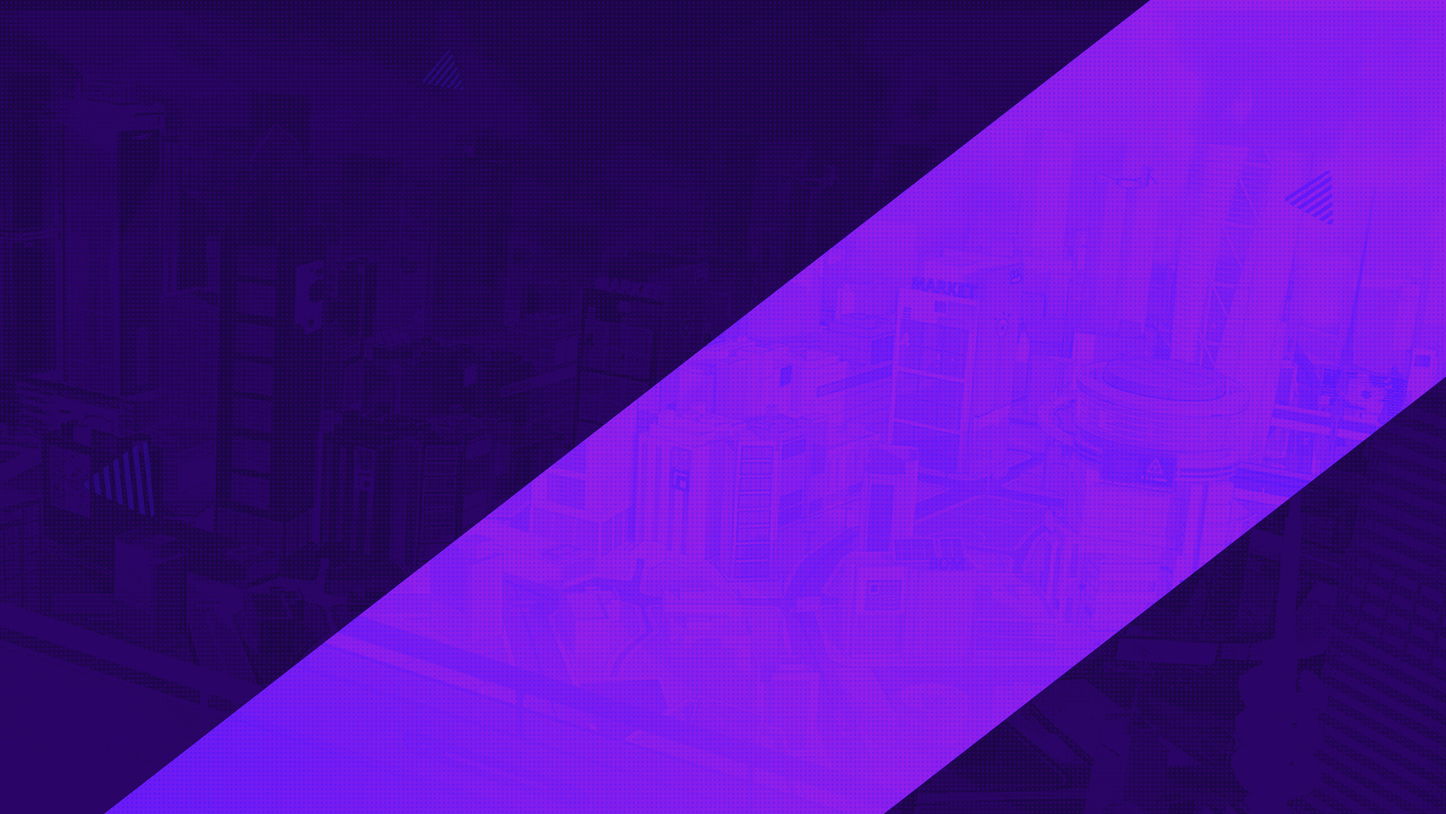
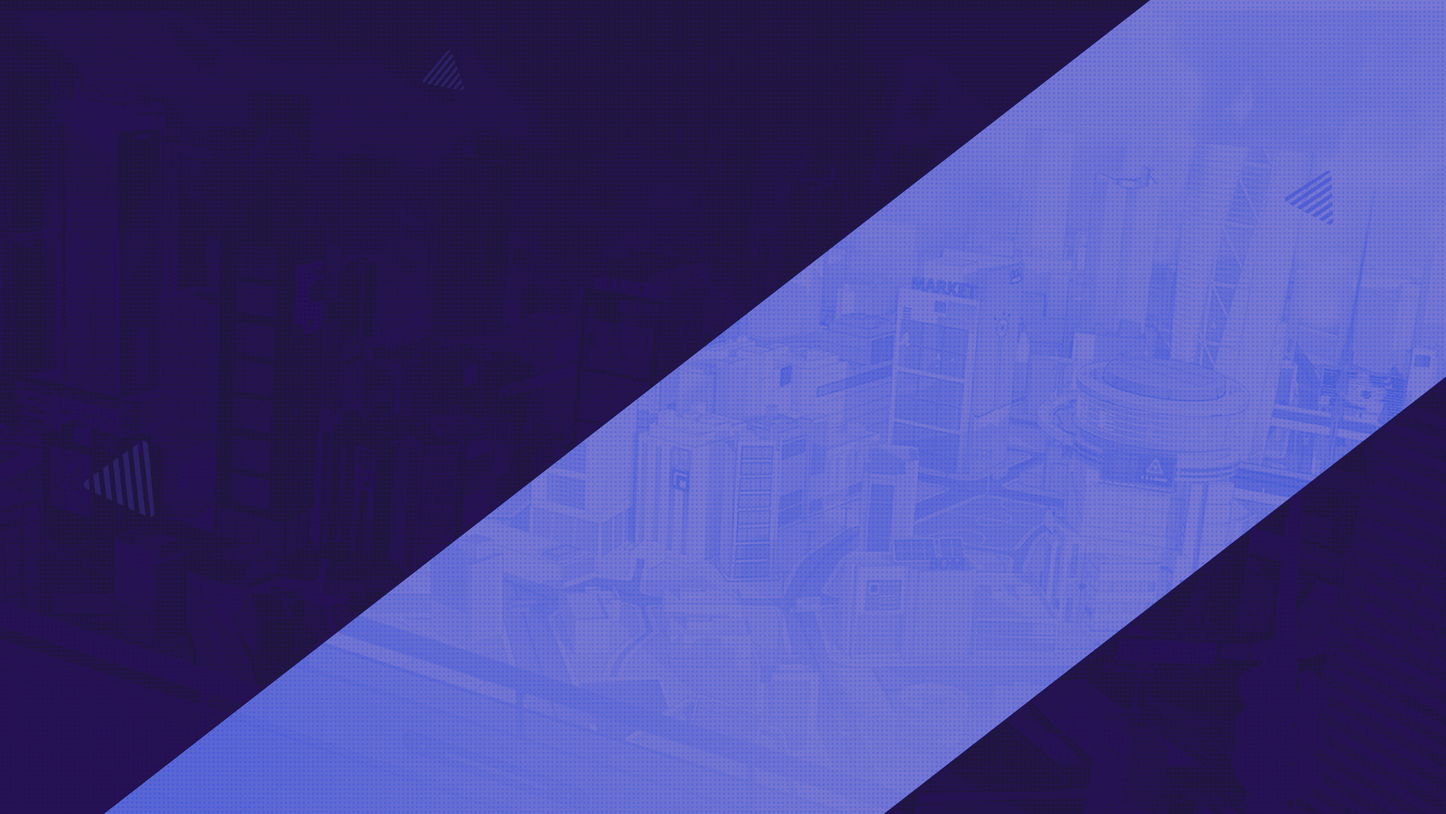
atualizando css outra vez

diff --git a/src/components/FormRegistration.vue b/src/components/FormRegistration.vue
@@ -99,7 +99,7 @@ export default {
   justify-content: center;
   padding: 20px;
   max-width: 30vw;
-  background-image: linear-gradient(to right,  #180355, #130247, #180355);
+  background-image: linear-gradient(-45deg,  #5e6bd35e,#1e163f54, #1e163faf, #1e163fb7, #1e163fd5, #1e163fd5, #1c0549b9);
   border-radius: 5px;
   box-shadow: 0 2px 5px rgba(0, 0, 0, 10);
 }
@@ -131,7 +131,7 @@ textarea {
 }
 
 input[type="submit"] {
-  background-color: #333;
+  background-color: black;
   color: white;
   border: none;
   padding: 10px 20px;

diff --git a/src/components/PostNews.vue b/src/components/PostNews.vue
@@ -49,6 +49,10 @@ export default {
 </script>
 
 <style scoped>
+.btn {
+  background-color: black;
+  border: 0px;
+}
 .container {
   margin-bottom: 20px;
   padding: 5px;
@@ -62,7 +66,7 @@ export default {
 .card {
   margin-top: 50px;
   box-shadow: 4px 5px 5px black;
-  background-image: linear-gradient(to top, #180355, #120626, #180355);
+  background-image: linear-gradient(to top, #110141, #120626, #11013b);
 }
 
 .card:hover {

diff --git a/src/components/FormLogin.vue b/src/components/FormLogin.vue
@@ -67,7 +67,7 @@ export default {
   max-width: 30vw;
   height: 80vh;
   margin: 0 auto;
-  background-image: linear-gradient(-45deg,  #7e1dec7a, #480496d5, #1a0645e0, #1c0549b9);
+  background-image: linear-gradient(-45deg,  #5e6bd35e,#1e163f54, #1e163faf, #1e163fb7, #1e163fd5, #1e163fd5, #1c0549b9);
   border-radius: 5px;
   box-shadow: 0 2px 5px rgba(0, 0, 0, 10);
 }

diff --git a/src/components/NavbarHome.vue b/src/components/NavbarHome.vue
@@ -65,8 +65,8 @@ export default {
 </script>
 <style scoped>
 .bg {
-  background-image: linear-gradient(to left, #000000, #120626, #000000);
-    border-bottom: 1px solid #A09B8C;
+  background-color: #07001d;
+  border-bottom: 1px solid #A09B8C;
 }
 
 .logo {

diff --git a/src/backend/news/news.php b/src/backend/news/news.php
@@ -1,5 +1,5 @@
 <?php
-header("Access-Control-Allow-Origin: http://localhost:8080");
+header("Access-Control-Allow-Origin: *");
 header("Access-Control-Allow-Methods: GET, POST, OPTIONS");
 header("Access-Control-Allow-Headers: Content-Type");
 
